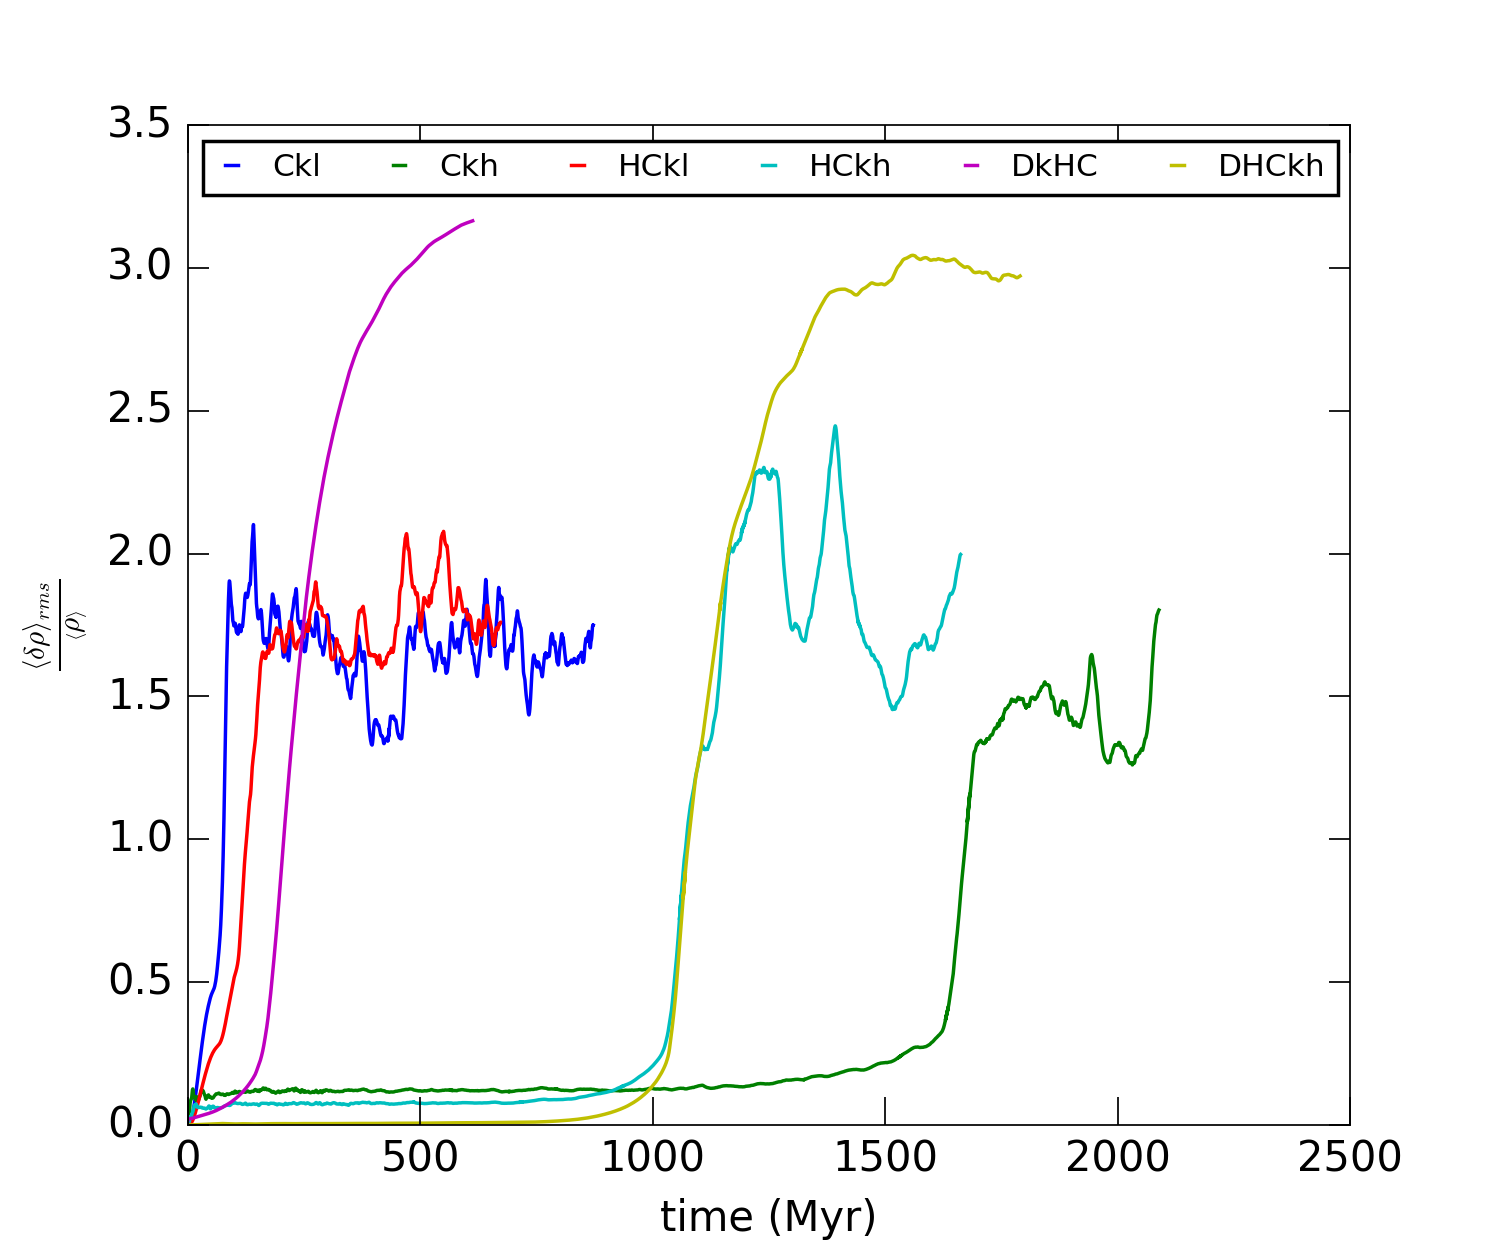
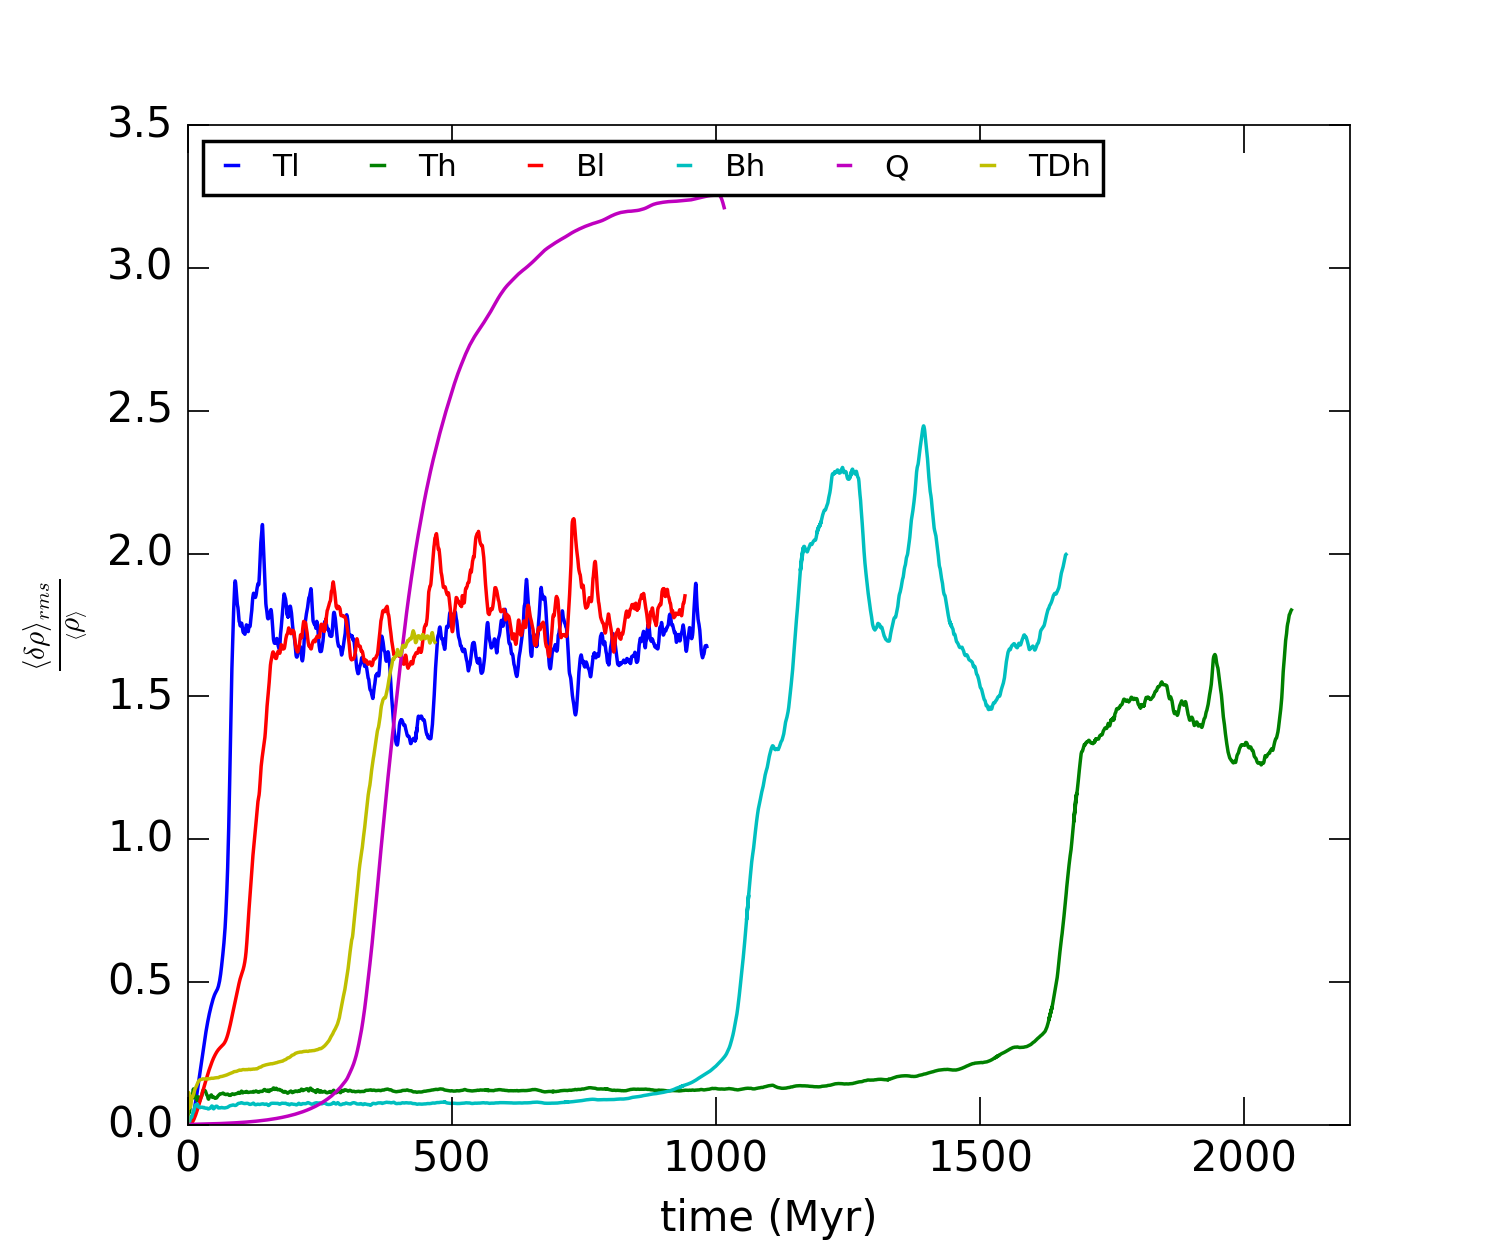
Edited names in density evolution plots

diff --git a/del-rho-plots/density_perturb.py b/del-rho-plots/density_perturb.py
@@ -23,9 +23,9 @@ UNIT_TIME=UNIT_LENGTH/UNIT_VELOCITY/(3.15e13)
 
 no_files=6
 #Load data files
-wdir=('tabulated_cooling/256/k0-2/', 'tabulated_cooling/256/k12/', 'thermal_heating/256/tabulated_cooling/F5e-1/k0-2/', 'thermal_heating/256/tabulated_cooling/F5e-1/k12/', 'no_turb/2e-2/', 'turb_perturb/F1e-2/k12/')
+wdir=('tabulated_cooling/256/k0-2/', 'tabulated_cooling/256/k12/', 'thermal_heating/256/tabulated_cooling/F5e-1/k0-2/', 'thermal_heating/256/tabulated_cooling/F5e-1/k12/', 'no_turb/2e-3/', 'turb_perturb/DkHC2e-3/')
 
-labels=('Ckl', 'Ckh', 'HCkl', 'HCkh', 'DkHC', 'DHCkh')
+labels=('Tl', 'Th', 'Bl', 'Bh', 'Q', 'TDh')
 
 fig, ax = plt.subplots()
 for i1 in xrange(0,no_files):
@@ -35,7 +35,8 @@ for i1 in xrange(0,no_files):
 	ax.plot(data[:,0]*UNIT_TIME,data[:,1],label=labels[i1])
 fig.set_size_inches(6, 5)
 ax.set_xlabel(r'time (Myr)')
-ax.set_ylabel(r'$\frac{\left<\delta\rho\right>_{rms}}{\left<\rho\right>}$')
+ax.set_ylabel(r'$\frac{\left<\delta\rho\right>_{rms}}{\left<\rho\right>}$', fontsize=12)
+ax.set_xlim(0,2200)
 #ax.set_title(r'$\frac{\left<\delta\rho\right>_{rms}}{\left<\rho\right>}$ vs time')
 # Shrink current axis by 20%
 box = ax.get_position()
